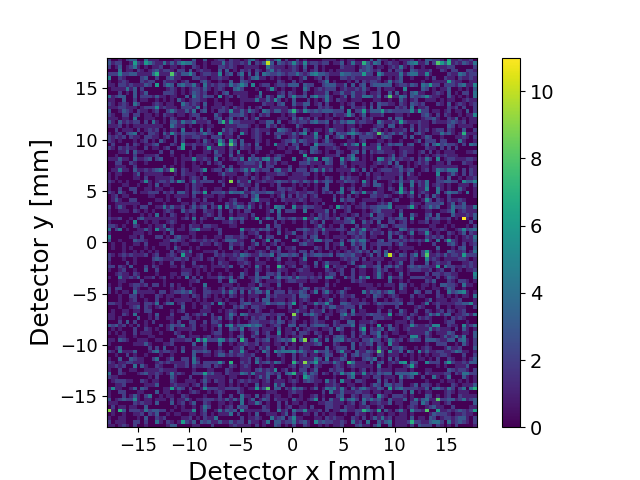
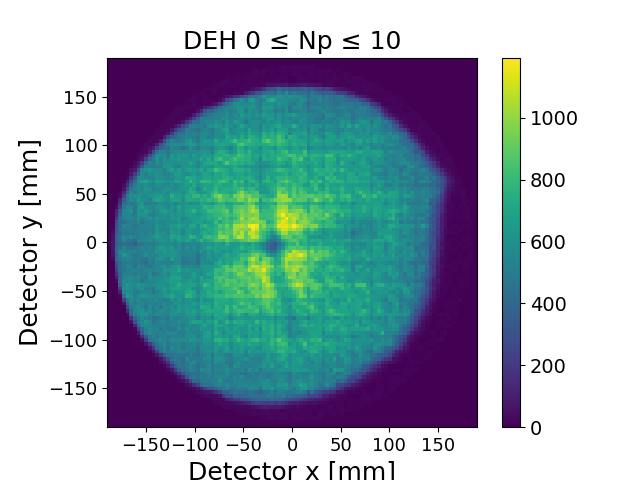
nieuwe images

diff --git a/Practicum15_(Project_QSP)/Heatmaps/Heatmap.py b/Practicum15_(Project_QSP)/Heatmaps/Heatmap.py
@@ -13,12 +13,12 @@ import time
 import numpy as np
 import matplotlib.pyplot as plt
 import warnings
-from numba import cuda
+from numba import cuda, njit, prange
 from numba.core.errors import NumbaPerformanceWarning
 warnings.simplefilter("ignore", category=NumbaPerformanceWarning)
 
 
-def process_heatmap(params):
+def process_heatmap(params, Cuda=False):
     print("------------------START-SCRIPT--------------------")
     startTime = time.perf_counter()
     tempTime = time.perf_counter()
@@ -56,18 +56,15 @@ def process_heatmap(params):
 
     columns4 = len(lines[0].split(",")) == 4
 
-    for i, line in enumerate(lines):
-        if i < 4:  # Skip the first 4 lines
-            continue
+    for i, line in enumerate(lines[4:]):
+        if columns4:
+            ElementMassi, Xdtci, Ydtci, PulseNbi = line.split(",")
         else:
-            if columns4:
-                ElementMassi, Xdtci, Ydtci, PulseNbi = line.split(",")
-            else:
-                Atomnumberi, Pxi, Pyi, Pzi, RangeNb, ElementMassi, PulseNbi, Vdci, Tofi, Xdtci, Ydtci = line.split()
-            PulseNb.append(PulseNbi)
-            Xdtc.append(Xdtci)
-            Ydtc.append(Ydtci)
-            ElementMass.append(ElementMassi)
+            Atomnumberi, Pxi, Pyi, Pzi, RangeNb, ElementMassi, PulseNbi, Vdci, Tofi, Xdtci, Ydtci = line.split()
+        PulseNb.append(PulseNbi)
+        Xdtc.append(Xdtci)
+        Ydtc.append(Ydtci)
+        ElementMass.append(ElementMassi)
 
     # Convert lists to arrays
     Xdtcar = np.array(Xdtc, dtype=float)
@@ -82,10 +79,7 @@ def process_heatmap(params):
     tempTime = time.perf_counter()
 
     # Compute results
-    Np = PulseNbar[1:] - PulseNbar[:-1]
-    for i in range(len(Np)):
-        if Np[i] < 0:
-            Np[i] += 2**24
+    Np = np.array(PulseNbar[1:], dtype=float)
 
     # GPU kernel for distance computation
     threads_per_block = 256
@@ -94,19 +88,37 @@ def process_heatmap(params):
     Distance = np.zeros(len(Np), dtype=np.float32)
     DistanceOP = np.zeros(len(Np), dtype=np.float32)
 
-    @cuda.jit
-    def compute_distances(Np, Xdtcar, Ydtcar, DELTANPMIN, DELTANPMAX, DELTANPOOP, Distance, DistanceOP):
-        i = cuda.grid(1)
-        if i < len(Np) - 1:
-            deltaNp = Np[i]
-            if DELTANPMIN <= deltaNp <= DELTANPMAX:
-                Distance[i] = ((Xdtcar[i + 1] - Xdtcar[i]) ** 2 + (Ydtcar[i + 1] - Ydtcar[i]) ** 2) ** 0.5
-            elif deltaNp > DELTANPOOP:
-                DistanceOP[i] = ((Xdtcar[i + 1] - Xdtcar[i]) ** 2 + (Ydtcar[i + 1] - Ydtcar[i]) ** 2) ** 0.5
+    if Cuda:
+        # ---- GPU distance computation ----
+        @cuda.jit
+        def compute_distances_GPU(Np, Xdtcar, Ydtcar, DELTANPMIN, DELTANPMAX, DELTANPOOP, Distance, DistanceOP):
+            i = cuda.grid(1)
+            if i < len(Np) - 1:
+                deltaNp = Np[i]
+                if DELTANPMIN <= deltaNp <= DELTANPMAX:
+                    Distance[i] = ((Xdtcar[i + 1] - Xdtcar[i]) ** 2 + (Ydtcar[i + 1] - Ydtcar[i]) ** 2) ** 0.5
+                elif deltaNp > DELTANPOOP:
+                    DistanceOP[i] = ((Xdtcar[i + 1] - Xdtcar[i]) ** 2 + (Ydtcar[i + 1] - Ydtcar[i]) ** 2) ** 0.5
 
-    compute_distances[blocks_per_grid, threads_per_block](
-        Np, Xdtcar, Ydtcar, DELTANPMIN, DELTANPMAX, DELTANPOOP, Distance, DistanceOP
-    )
+        compute_distances_GPU[blocks_per_grid, threads_per_block](
+            Np, Xdtcar, Ydtcar, DELTANPMIN, DELTANPMAX, DELTANPOOP, Distance, DistanceOP
+        )
+
+    else:
+        # ---- CPU distance computation ----
+        @njit(parallel=True)
+        def compute_distances_cpu(Np, Xdtcar, Ydtcar, DELTANPMIN, DELTANPMAX, DELTANPOOP, Distance, DistanceOP):
+            for i in prange(len(Np) - 1):
+                deltaNp = Np[i]
+                dx = Xdtcar[i + 1] - Xdtcar[i]
+                dy = Ydtcar[i + 1] - Ydtcar[i]
+                dist = (dx ** 2 + dy ** 2) ** 0.5
+                if DELTANPMIN <= deltaNp <= DELTANPMAX:
+                    Distance[i] = dist
+                elif deltaNp > DELTANPOOP:
+                    DistanceOP[i] = dist
+
+        compute_distances_cpu(Np, Xdtcar, Ydtcar, DELTANPMIN, DELTANPMAX, DELTANPOOP, Distance, DistanceOP)
 
     dataComputeDistanceTijd = time.perf_counter() - tempTime
     print(f"- Calculating the distances: {dataComputeDistanceTijd:.3f}s")
@@ -152,37 +164,61 @@ def process_heatmap(params):
     Np_gpu = cuda.to_device(Np)
     ElementMass_gpu = cuda.to_device(ElementMass)
 
-    @cuda.jit
-    def update_matrices(Np, ElementMass, rownr, colmnr, NROFBINS, SI1RNGMIN, SI1RNGMAX, SI2RNGMIN, SI2RNGMAX, SI3RNGMIN, SI3RNGMAX, 
-                        NpMat, NrMat, NSi1, NSi2, NSi3):
-        i, j = cuda.grid(2)  # Get the 2D thread indices
-        if i < NROFBINS and j < NROFBINS:  # Ensure we are within bounds
-            for k in range(len(Np)):  # Iterate over all events
-                if colmnr[k] == i + 1 and rownr[k] == j + 1:  # Match bin indices
-                    if k < len(Np) - 1:
-                        # Update NpMat and NrMat
-                        cuda.atomic.add(NpMat, (i, j), Np[k - 1])
-                        cuda.atomic.add(NrMat, (i, j), 1)
 
-                        # Update charge state matrices
-                        if SI1RNGMIN < ElementMass[k] < SI1RNGMAX:
-                            cuda.atomic.add(NSi1, (i, j), 1)
-                        elif SI2RNGMIN < ElementMass[k] < SI2RNGMAX:
-                            cuda.atomic.add(NSi2, (i, j), 1)
-                        elif SI3RNGMIN < ElementMass[k] < SI3RNGMAX:
-                            cuda.atomic.add(NSi3, (i, j), 1)
+    if Cuda:
+        # ---- GPU matrix update ----
+        @cuda.jit
+        def update_matrices(Np, ElementMass, rownr, colmnr, NROFBINS, SI1RNGMIN, SI1RNGMAX, SI2RNGMIN, SI2RNGMAX, SI3RNGMIN, SI3RNGMAX, 
+                            NpMat, NrMat, NSi1, NSi2, NSi3):
+            i, j = cuda.grid(2)  # Get the 2D thread indices
+            if i < NROFBINS and j < NROFBINS:  # Ensure we are within bounds
+                for k in range(len(Np)):  # Iterate over all events
+                    if colmnr[k] == i + 1 and rownr[k] == j + 1:  # Match bin indices
+                        if k < len(Np) - 1:
+                            # Update NpMat and NrMat
+                            cuda.atomic.add(NpMat, (i, j), Np[k - 1])
+                            cuda.atomic.add(NrMat, (i, j), 1)
 
-    update_matrices[blocks_per_grid, threads_per_block](
-        Np_gpu, ElementMass_gpu, rownr_gpu, colmnr_gpu, NROFBINS,
-        SI1RNGMIN, SI1RNGMAX, SI2RNGMIN, SI2RNGMAX, SI3RNGMIN, SI3RNGMAX,
-        NpMat_gpu, NrMat_gpu, NSi1_gpu, NSi2_gpu, NSi3_gpu
-    )
+                            # Update charge state matrices
+                            if SI1RNGMIN < ElementMass[k] < SI1RNGMAX:
+                                cuda.atomic.add(NSi1, (i, j), 1)
+                            elif SI2RNGMIN < ElementMass[k] < SI2RNGMAX:
+                                cuda.atomic.add(NSi2, (i, j), 1)
+                            elif SI3RNGMIN < ElementMass[k] < SI3RNGMAX:
+                                cuda.atomic.add(NSi3, (i, j), 1)
 
-    NpMat = NpMat_gpu.copy_to_host()
-    NrMat = NrMat_gpu.copy_to_host()
-    NSi1 = NSi1_gpu.copy_to_host()
-    NSi2 = NSi2_gpu.copy_to_host()
-    NSi3 = NSi3_gpu.copy_to_host()
+        update_matrices[blocks_per_grid, threads_per_block](
+            Np_gpu, ElementMass_gpu, rownr_gpu, colmnr_gpu, NROFBINS,
+            SI1RNGMIN, SI1RNGMAX, SI2RNGMIN, SI2RNGMAX, SI3RNGMIN, SI3RNGMAX,
+            NpMat_gpu, NrMat_gpu, NSi1_gpu, NSi2_gpu, NSi3_gpu
+        )
+        NpMat = NpMat_gpu.copy_to_host()
+        NrMat = NrMat_gpu.copy_to_host()
+        NSi1 = NSi1_gpu.copy_to_host()
+        NSi2 = NSi2_gpu.copy_to_host()
+        NSi3 = NSi3_gpu.copy_to_host()
+
+    else:
+        # ---- CPU matrix update ----
+        @njit(parallel=True)
+        def update_matrices_cpu(Np, ElementMass, rownr, colmnr, NpMat, NrMat, NSi1, NSi2, NSi3,
+                                SI1RNGMIN, SI1RNGMAX, SI2RNGMIN, SI2RNGMAX, SI3RNGMIN, SI3RNGMAX):
+            for k in prange(len(Np)):
+                i = colmnr[k] - 1
+                j = rownr[k] - 1
+                if 0 <= i < NROFBINS and 0 <= j < NROFBINS:
+                    NpMat[i, j] += Np[k - 1] if k > 0 else 0
+                    NrMat[i, j] += 1
+                    mass = ElementMass[k]
+                    if SI1RNGMIN < mass < SI1RNGMAX:
+                        NSi1[i, j] += 1
+                    elif SI2RNGMIN < mass < SI2RNGMAX:
+                        NSi2[i, j] += 1
+                    elif SI3RNGMIN < mass < SI3RNGMAX:
+                        NSi3[i, j] += 1
+
+        update_matrices_cpu(Np, ElementMass, rownr, colmnr, NpMat, NrMat, NSi1, NSi2, NSi3,
+                            SI1RNGMIN, SI1RNGMAX, SI2RNGMIN, SI2RNGMAX, SI3RNGMIN, SI3RNGMAX)
 
     detectionrate = (len(Np) + 1) / np.sum(Np)
 
@@ -191,12 +227,14 @@ def process_heatmap(params):
     tempTime = time.perf_counter()
 
     '''Plot results'''
+    LIMIT = 190
+    TICKS = [-150, -100, -50, 0, 50, 100, 150]
     # Save the first plot (DEH classic)
     f1 = plt.figure(1)
-    plt.hist2d(Xdtcar, Ydtcar, bins=[NROFBINS, NROFBINS], range=np.array([(-18, 18), (-18, 18)]))
+    plt.hist2d(Xdtcar, Ydtcar, bins=[NROFBINS, NROFBINS], range=np.array([(-LIMIT, LIMIT), (-LIMIT, LIMIT)]))
     plt.gca().set_aspect('equal')
-    plt.gca().set_xticks([-15, -10, -5, 0, 5, 10, 15])
-    plt.gca().set_yticks([-15, -10, -5, 0, 5, 10, 15])
+    plt.gca().set_xticks(TICKS)
+    plt.gca().set_yticks(TICKS)
     plt.xlabel('Detector x [mm]', fontsize=18)
     plt.ylabel('Detector y [mm]', fontsize=18)
     plt.title('Detector event histogram', fontsize=18)
@@ -208,13 +246,13 @@ def process_heatmap(params):
 
     # Save the second plot (DEH Np filtered)
     f2 = plt.figure(2)
-    plt.hist2d(Xdtcor, Ydtcor, bins=[NROFBINS, NROFBINS], range=np.array([(-18, 18), (-18, 18)]))
+    plt.hist2d(Xdtcor, Ydtcor, bins=[NROFBINS, NROFBINS], range=np.array([(-LIMIT, LIMIT), (-LIMIT, LIMIT)]))
     plt.xlabel('Detector x [mm]', fontsize=18)
     plt.ylabel('Detector y [mm]', fontsize=18)
     plt.title(f'DEH {DELTANPMIN} ≤ Np ≤ {DELTANPMAX}', fontsize=18)
     plt.gca().set_aspect('equal')
-    plt.gca().set_xticks([-15, -10, -5, 0, 5, 10, 15])
-    plt.gca().set_yticks([-15, -10, -5, 0, 5, 10, 15])
+    plt.gca().set_xticks(TICKS)
+    plt.gca().set_yticks(TICKS)
     plt.gca().tick_params(labelsize=13)
     cb = plt.colorbar()
     cb.ax.tick_params(labelsize=14)
@@ -224,13 +262,13 @@ def process_heatmap(params):
     # Save the third plot (CSR)
     f3 = plt.figure(3)
     plt.imshow(np.divide(NSi2, (NSi1 + NSi2 + 1e-6))[::1, ::-1].T, vmin=0.8, extent=[np.min(Xdtcar), np.max(Xdtcar), np.min(Ydtcar), np.max(Ydtcar)])
-    plt.ylim([-18, 18])
-    plt.xlim([-18, 18])
+    plt.ylim([-LIMIT, LIMIT])
+    plt.xlim([-LIMIT, LIMIT])
     plt.xlabel('Detector x [mm]', fontsize=18)
     plt.ylabel('Detector y [mm]', fontsize=18)
     plt.title('CSR', fontsize=18)
-    plt.gca().set_xticks([-15, -10, -5, 0, 5, 10, 15])
-    plt.gca().set_yticks([-15, -10, -5, 0, 5, 10, 15])
+    plt.gca().set_xticks(TICKS)
+    plt.gca().set_yticks(TICKS)
     plt.gca().tick_params(labelsize=13)
     cb = plt.colorbar()
     cb.ax.tick_params(labelsize=14)
@@ -245,10 +283,10 @@ def process_heatmap(params):
     plt.xlabel('Detector x [mm]', fontsize=18)
     plt.ylabel('Detector y [mm]', fontsize=18)
     plt.title(f'DEH percentage of hits {DELTANPMIN} ≤ Np ≤ {DELTANPMAX}', fontsize=18)
-    plt.ylim([-18, 18])
-    plt.xlim([-18, 18])
-    plt.gca().set_xticks([-15, -10, -5, 0, 5, 10, 15])
-    plt.gca().set_yticks([-15, -10, -5, 0, 5, 10, 15])
+    plt.ylim([-LIMIT, LIMIT])
+    plt.xlim([-LIMIT, LIMIT])
+    plt.gca().set_xticks(TICKS)
+    plt.gca().set_yticks(TICKS)
     plt.gca().tick_params(labelsize=13)
     cb = plt.colorbar()
     cb.ax.tick_params(labelsize=14)
@@ -259,10 +297,10 @@ def process_heatmap(params):
     f5 = plt.figure(5)
     resultMat = np.divide(NpMat, NrMat + 1e-9)
     plt.imshow(resultMat[::1, ::-1].T, cmap='seismic', vmin=1 / detectionrate * 0.8, vmax=1 / detectionrate * 0.95, extent=[np.min(Xdtcar), np.max(Xdtcar), np.min(Ydtcar), np.max(Ydtcar)])
-    plt.xlim([-18, 18])
-    plt.ylim([-18, 18])
-    plt.gca().set_xticks([-15, -10, -5, 0, 5, 10, 15])
-    plt.gca().set_yticks([-15, -10, -5, 0, 5, 10, 15])
+    plt.xlim([-LIMIT, LIMIT])
+    plt.ylim([-LIMIT, LIMIT])
+    plt.gca().set_xticks(TICKS)
+    plt.gca().set_yticks(TICKS)
     plt.xlabel('Detector x [mm]', fontsize=18)
     plt.ylabel('Detector y [mm]', fontsize=18)
     plt.title('Average number of pulses between events', fontsize=18)
@@ -279,10 +317,10 @@ def process_heatmap(params):
     plt.xlabel('Detector x [mm]', fontsize=18)
     plt.ylabel('Detector y [mm]', fontsize=18)
     plt.title('Average number of pulses between events', fontsize=18)
-    plt.xlim([-18, 18])
-    plt.ylim([-18, 18])
-    plt.gca().set_xticks([-15, -10, -5, 0, 5, 10, 15])
-    plt.gca().set_yticks([-15, -10, -5, 0, 5, 10, 15])
+    plt.xlim([-LIMIT, LIMIT])
+    plt.ylim([-LIMIT, LIMIT])
+    plt.gca().set_xticks(TICKS)
+    plt.gca().set_yticks(TICKS)
     plt.gca().tick_params(labelsize=13)
     cb = plt.colorbar()
     cb.ax.tick_params(labelsize=14)

diff --git a/Practicum15_(Project_QSP)/Heatmaps/Leoben/Leoben.py b/Practicum15_(Project_QSP)/Heatmaps/Leoben/Leoben.py
@@ -19,4 +19,4 @@ params = {
     "SETDETRATE": 0.002,
 }
 
-process_heatmap(params)
+process_heatmap(params, Cuda=True)
